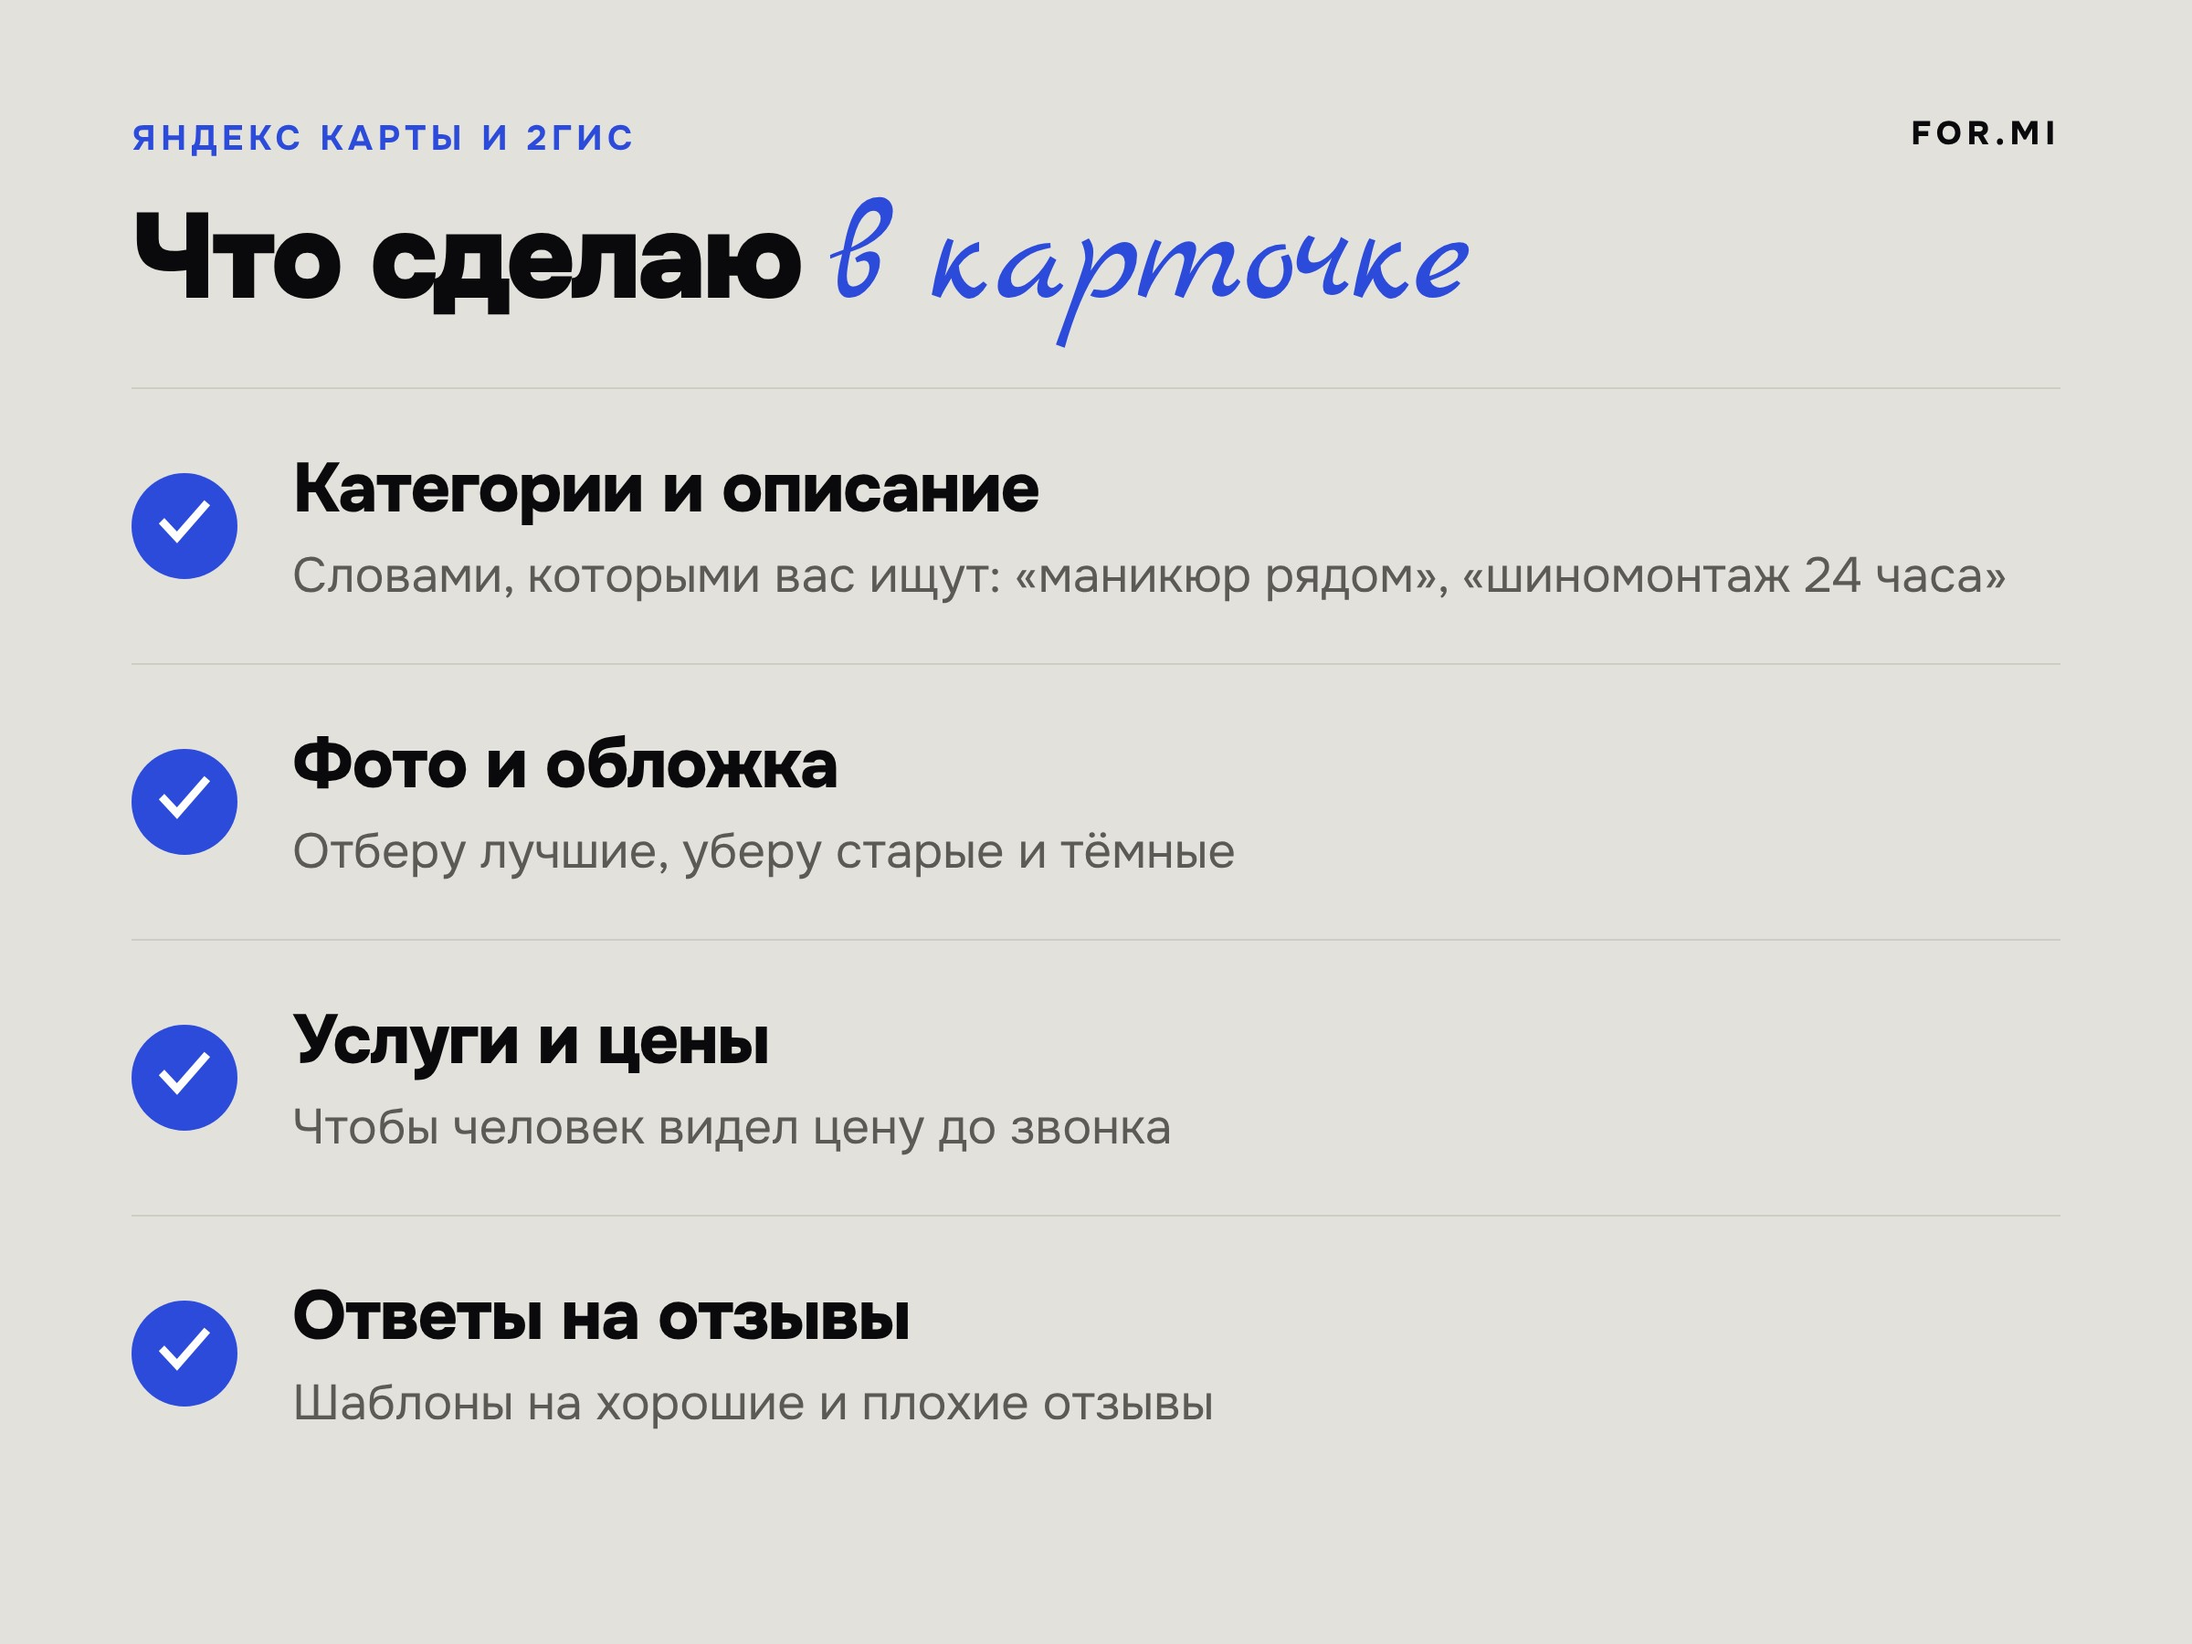
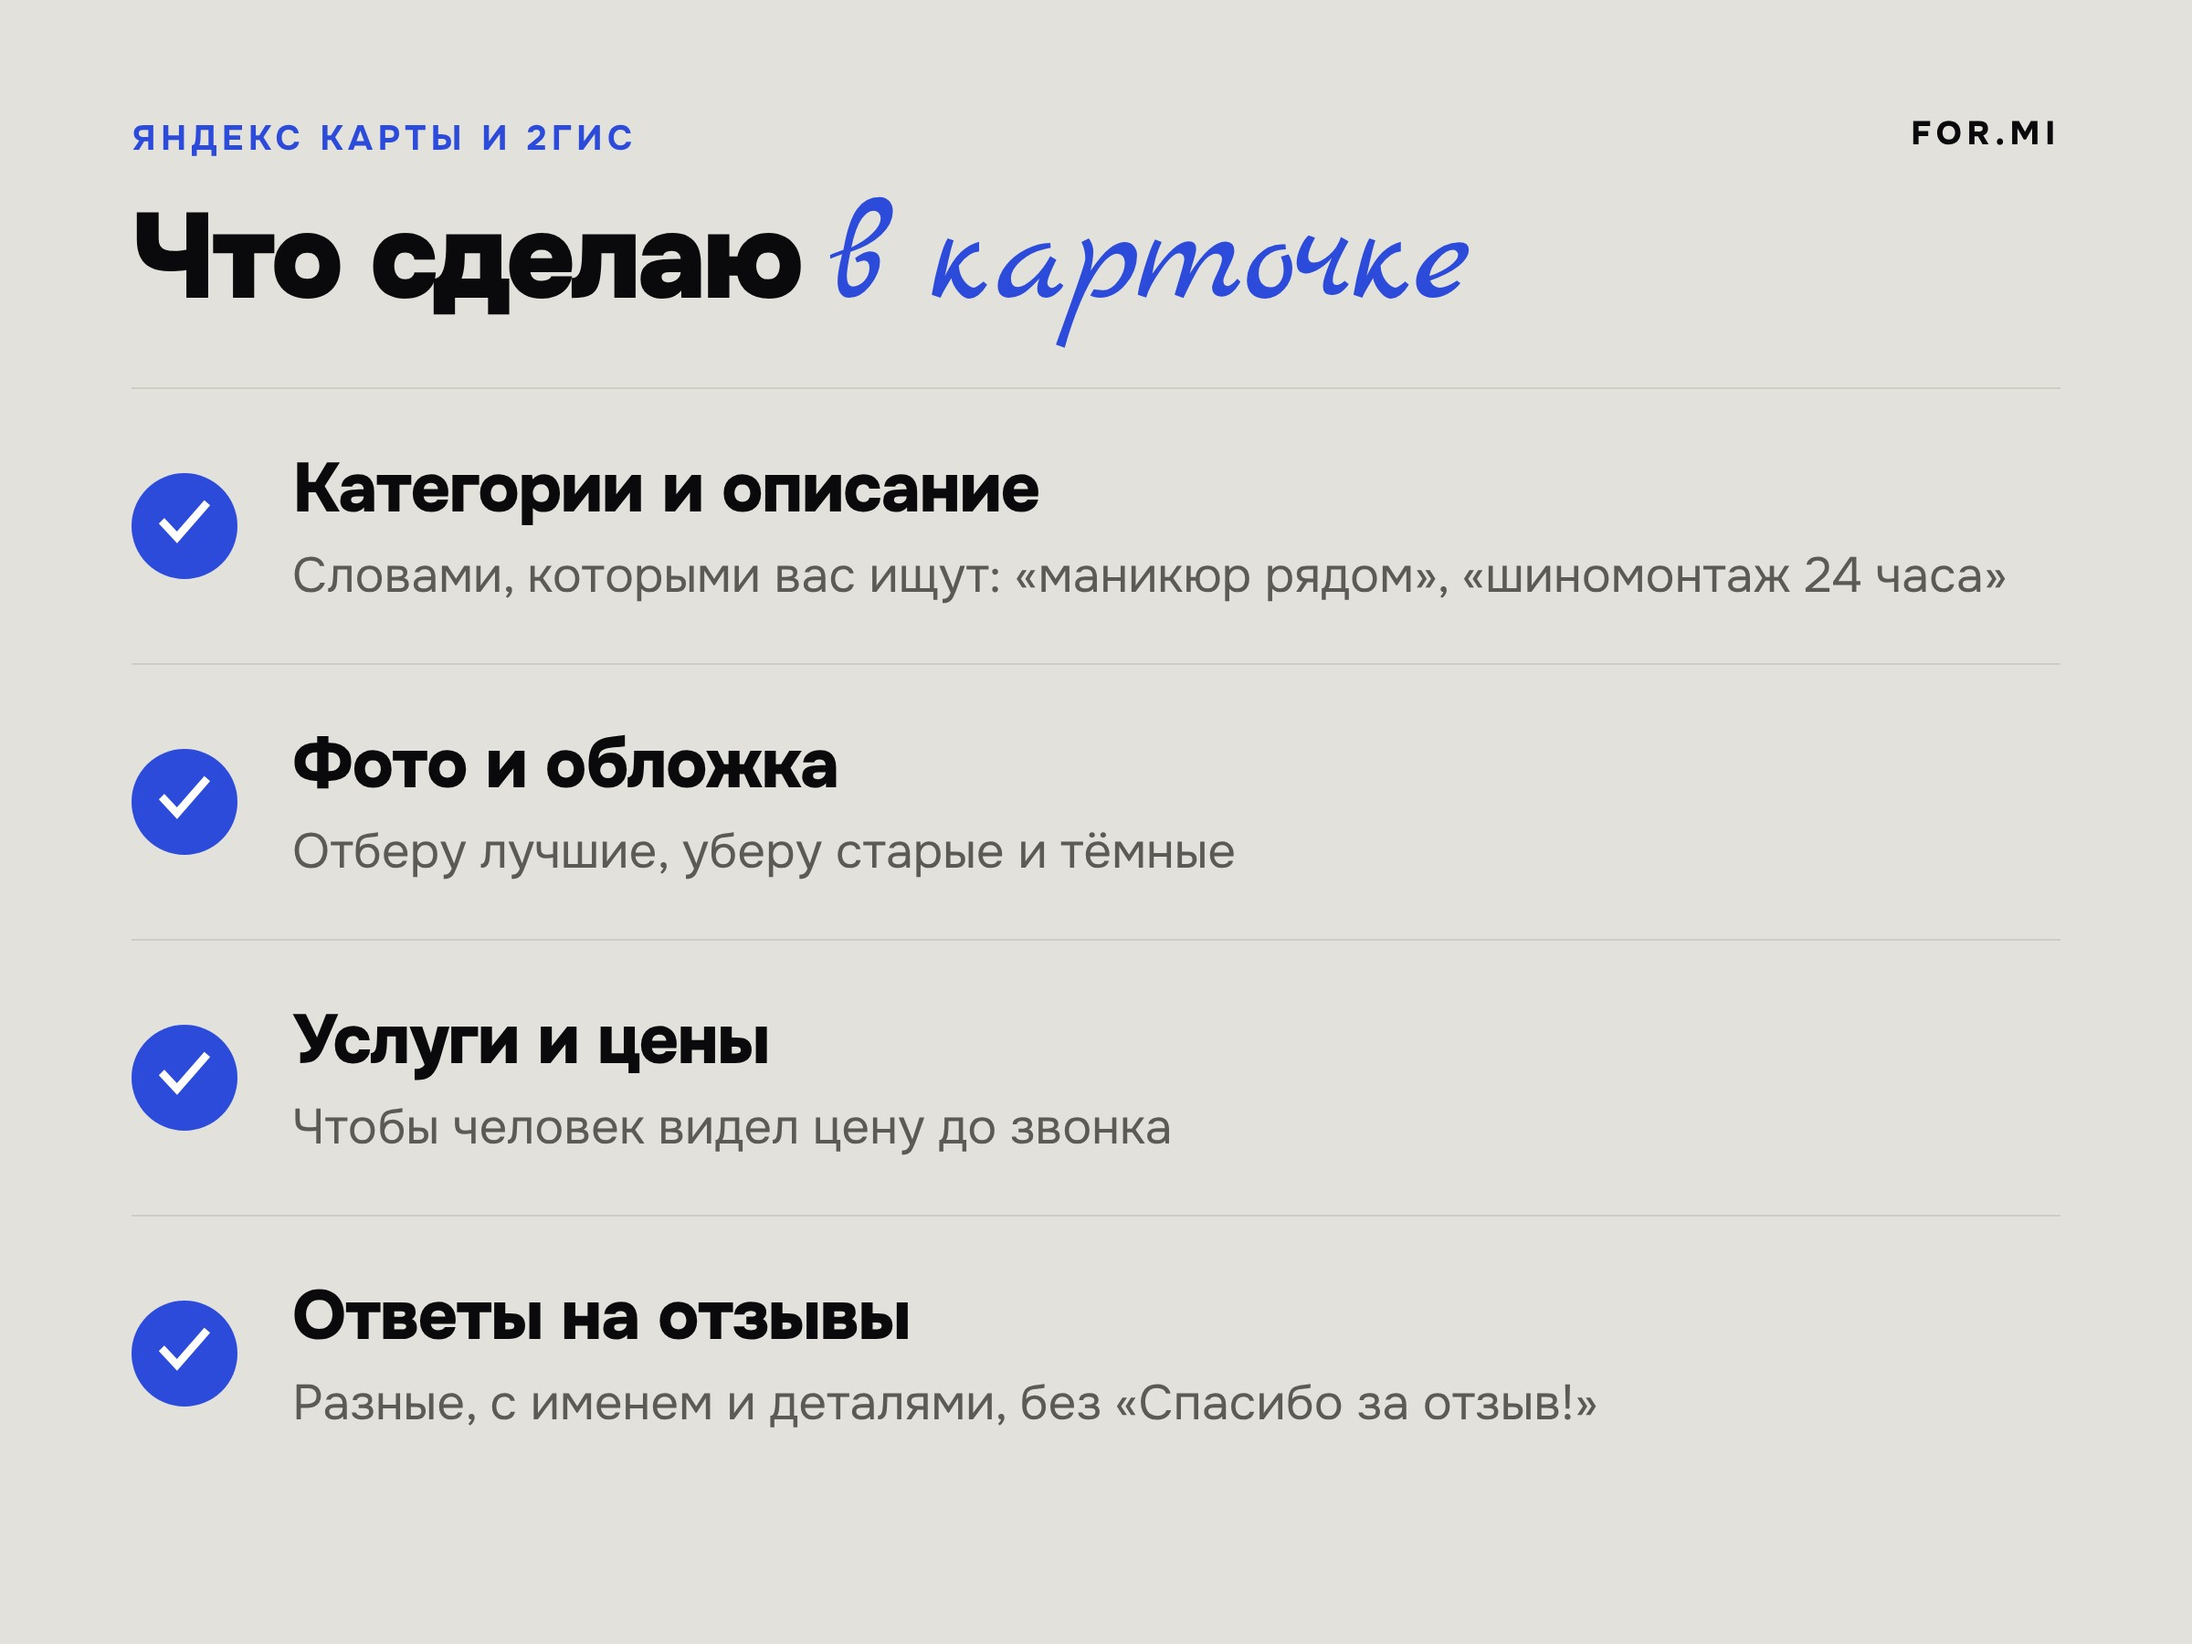
Авито: живые ответы на отзывы вместо шаблонов в объявлении про Карты
Claude-Session: https://claude.ai/code/session_01MqcZMHdjeZFFUuT8aB5MzJ

Changed region(s): [[0.125, 0.84, 0.7188, 0.8711]]

diff --git a/_instrumenty/avito.js b/_instrumenty/avito.js
@@ -140,7 +140,7 @@ const kartyVhoditHtml=()=>`<!doctype html><html lang="ru"><head>${head}
 <div class="it"><b>✓</b><div><h3>Категории и описание</h3><p>Словами, которыми вас ищут: «маникюр рядом», «шиномонтаж 24 часа»</p></div></div>
 <div class="it"><b>✓</b><div><h3>Фото и обложка</h3><p>Отберу лучшие, уберу старые и тёмные</p></div></div>
 <div class="it"><b>✓</b><div><h3>Услуги и цены</h3><p>Чтобы человек видел цену до звонка</p></div></div>
-<div class="it"><b>✓</b><div><h3>Ответы на отзывы</h3><p>Шаблоны на хорошие и плохие отзывы</p></div></div>
+<div class="it"><b>✓</b><div><h3>Ответы на отзывы</h3><p>Разные, с именем и деталями, без «Спасибо за отзыв!»</p></div></div>
 <div class="brand" style="right:72px;top:62px">FOR.MI</div>
 </div></body></html>`;
 
@@ -174,7 +174,7 @@ const kartyDoPosleHtml=()=>`<!doctype html><html lang="ru"><head>${head}
 </div>
 <div class="cd" style="background:#fff;color:${C.ink};box-shadow:0 30px 60px -25px rgb(0 0 0 / .3)">
   <h3 style="color:${C.blue}">Стало</h3>
-  ${vmark('Обложка и 12 светлых фото работ')}${vmark('Описание словами, которыми ищут')}${vmark('Прайс из 8 услуг')}${vmark('Часы и кнопка «Записаться»')}${vmark('Ответы на все отзывы')}
+  ${vmark('Обложка и 12 светлых фото работ')}${vmark('Описание словами, которыми ищут')}${vmark('Прайс из 8 услуг')}${vmark('Часы и кнопка «Записаться»')}${vmark('Свой ответ на каждый отзыв')}
 </div></div>
 <div style="position:absolute;left:72px;bottom:40px;font-size:19px;color:${C.muted};font-weight:500">Пример для наглядности</div>
 <div class="brand" style="right:72px;bottom:40px">FOR.MI</div>

diff --git a/avito/obyavleniya.md b/avito/obyavleniya.md
@@ -89,7 +89,7 @@
 • загружу фото и обложку, уберу лишние
 • заполню услуги и цены
 • проверю адрес, часы работы и кнопки связи
-• напишу шаблоны ответов на хорошие и плохие отзывы
+• отвечу на отзывы, которые висят без ответа, и дам заготовки для новых. Ответы разные, с именем и деталями из отзыва, чтобы человек видел: его прочитали
 
 Карточка остаётся на вас, все доступы у вас.
 
